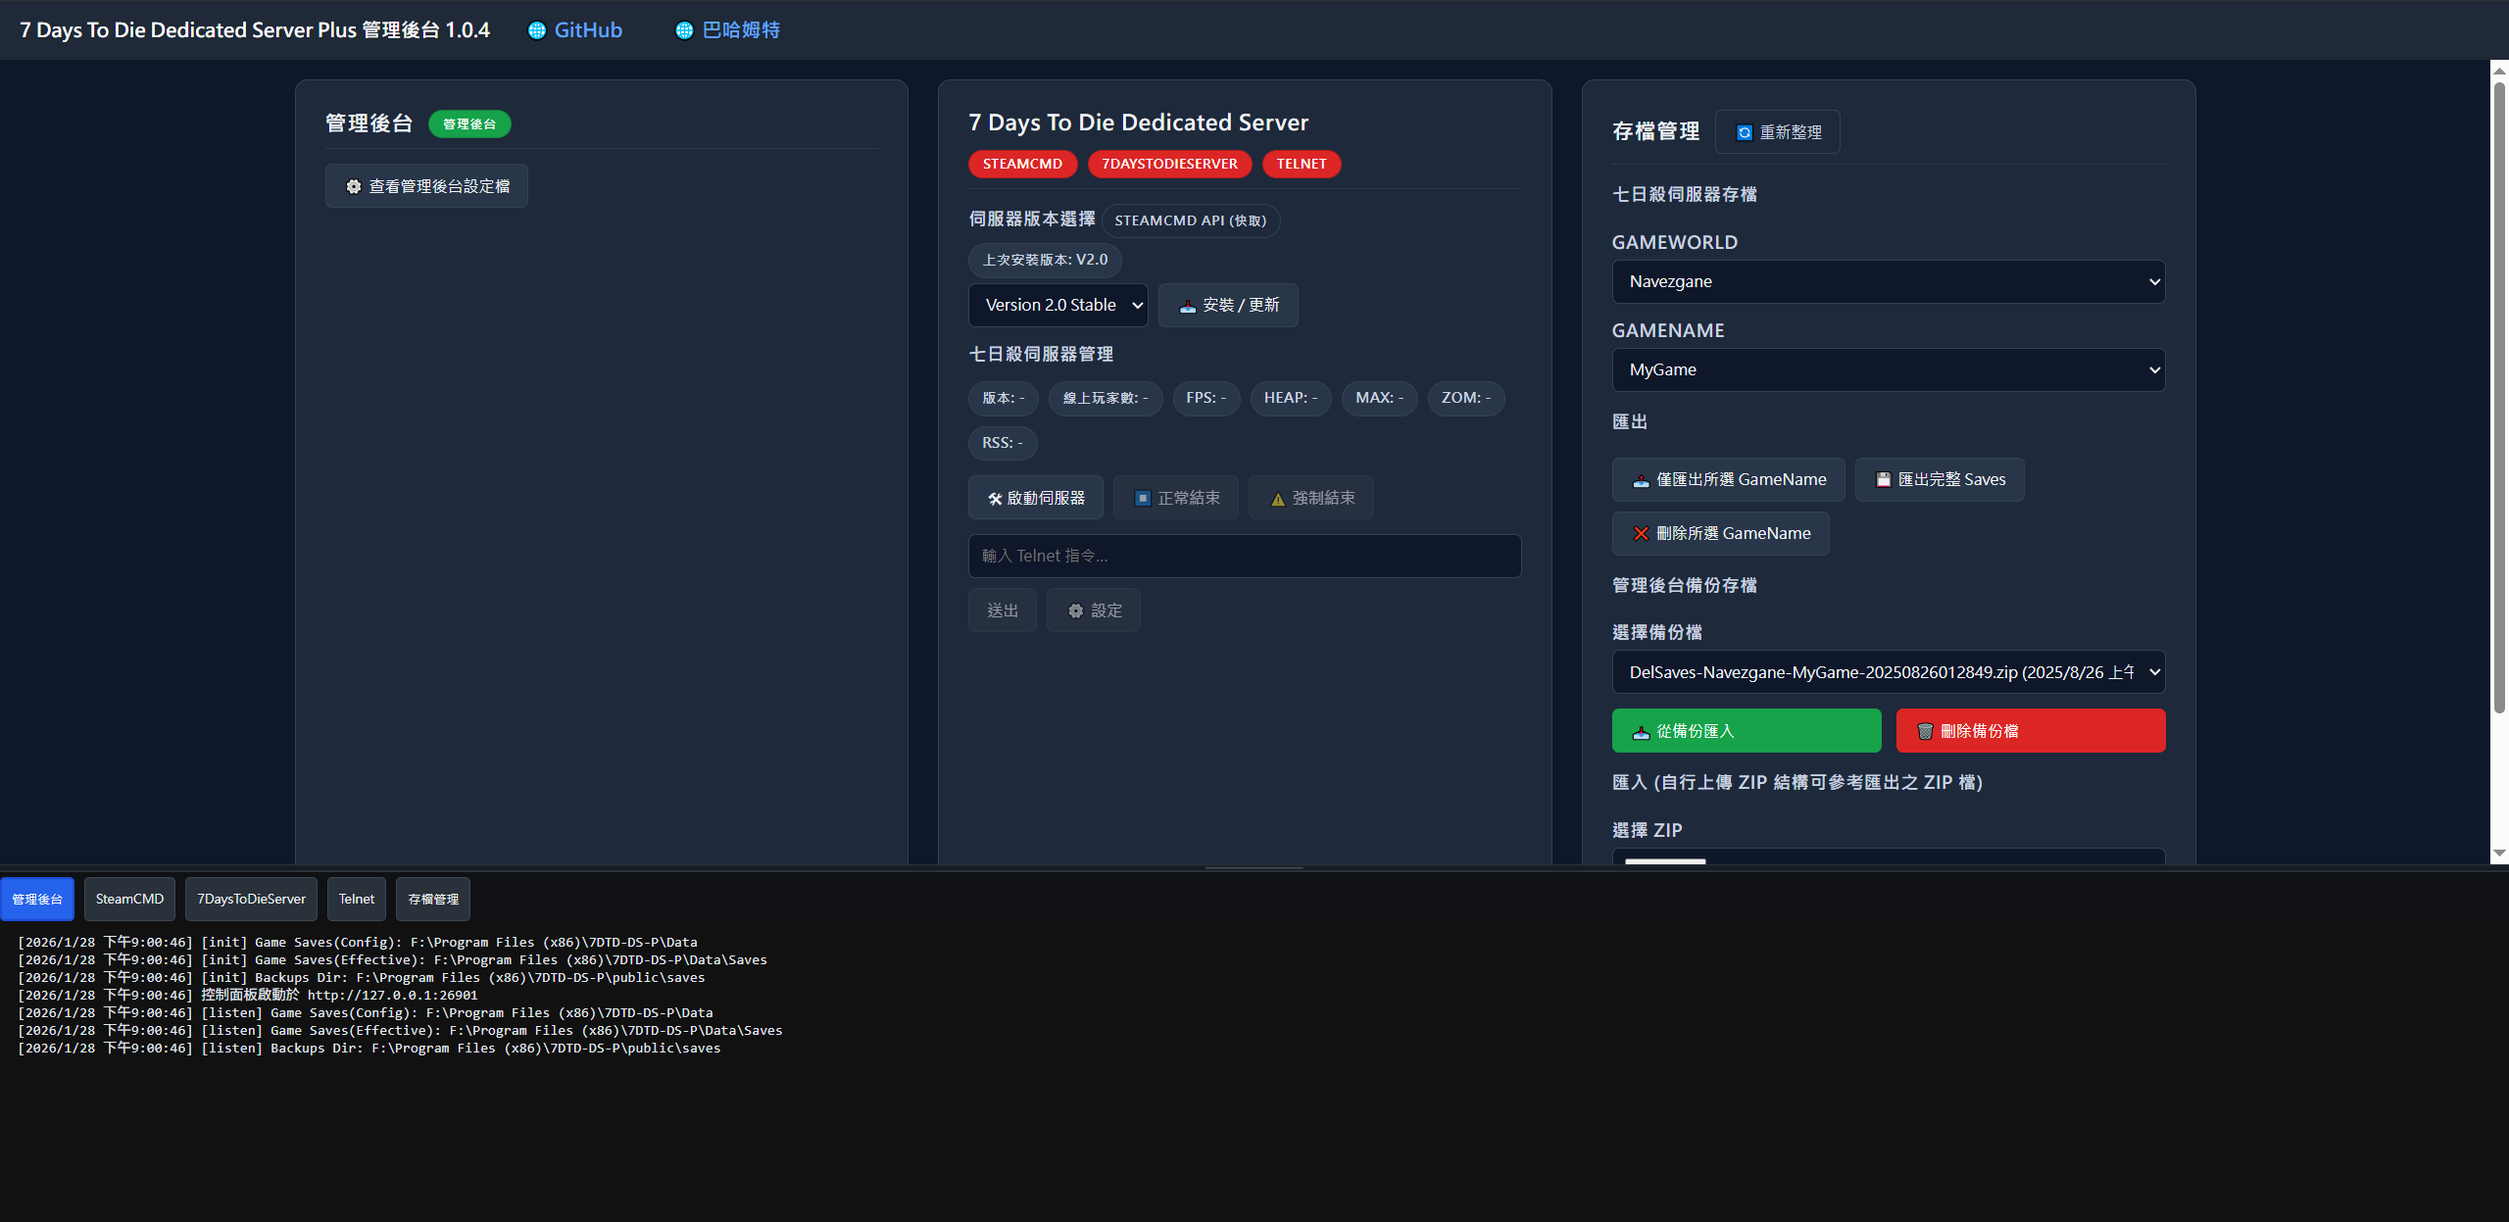
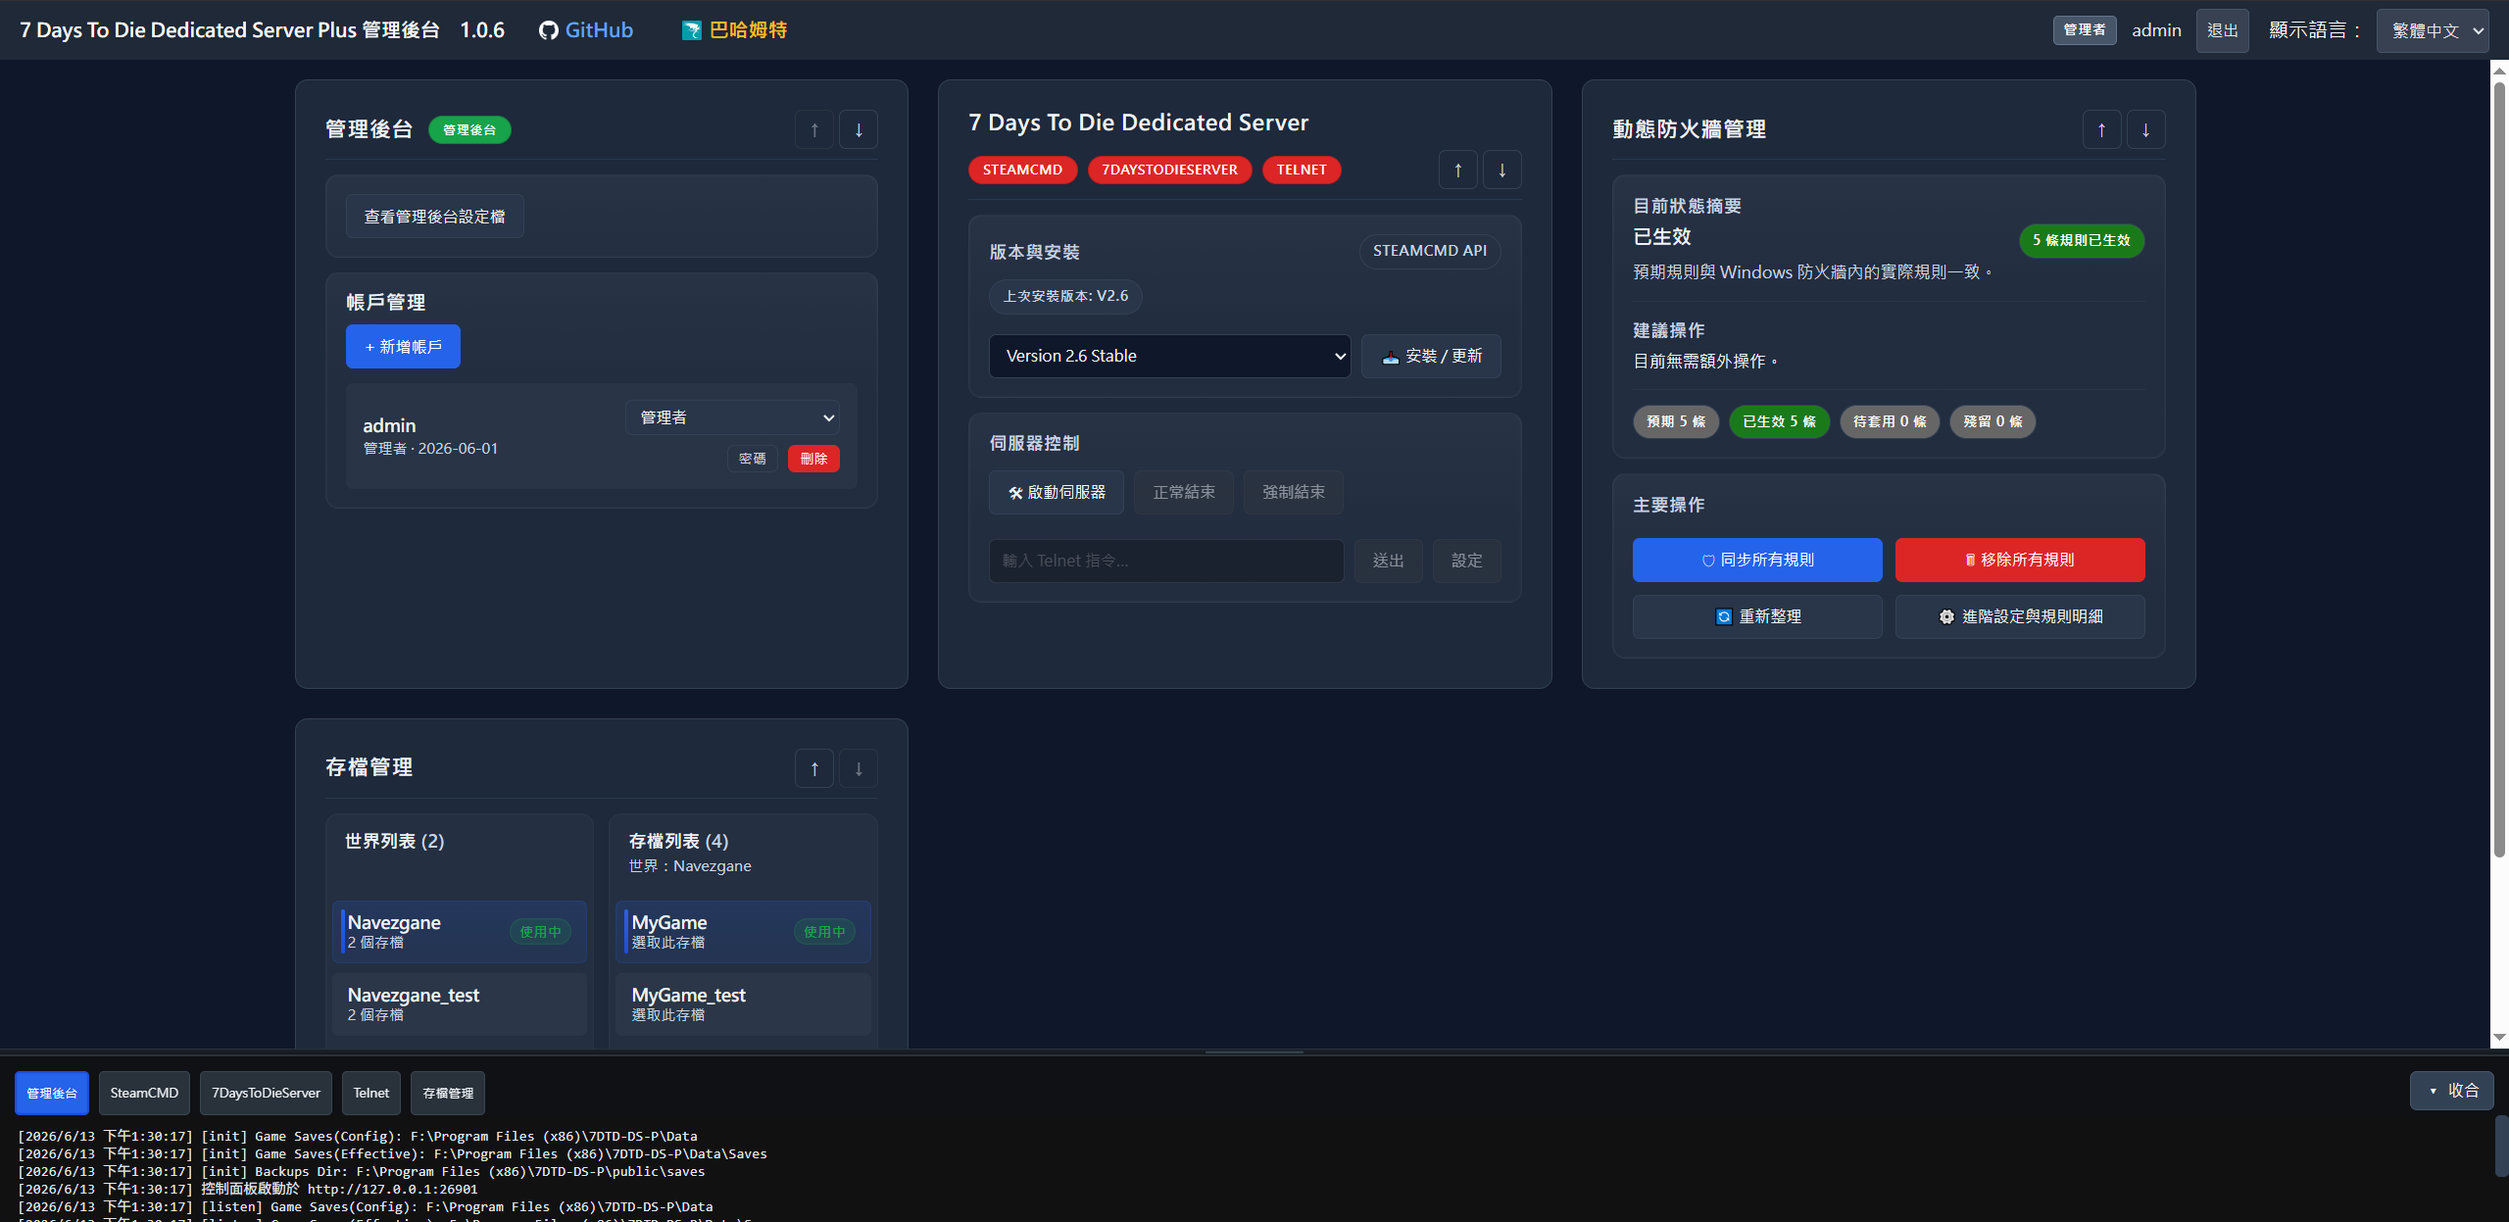
docs

diff --git a/readme.en.md b/readme.en.md
@@ -24,8 +24,6 @@
 - **Save Backup & Restore** - Easily import and export server saves
 - **Windows Service** - Install as a system service for automatic startup
 
-### Screenshot
-
 ![Management Panel](docs/images/image-11.png)
 
 ---
@@ -48,35 +46,58 @@ For detailed instructions, see the [Installation Guide](docs/install.en.md).
 
 ## Feature List
 
-### Backend Management
+The sections below follow the main dashboard cards and their related modal windows, so readers can understand each area more easily when paired with card screenshots and modal screenshots.
 
-| Feature                     | Description                   |
-| --------------------------- | ----------------------------- |
-| serverconfig.xml management | Web-based hosting and editing |
-| Logs integration            | Simplified troubleshooting    |
+### Admin Panel Card
 
-### 7 Days to Die Dedicated Server & SteamCMD Integration
+![Admin Panel Card](docs/images/readme/card-dsp-en.png)
 
-| Feature                           | Description                       |
-| --------------------------------- | --------------------------------- |
-| Server version selector           | Easily switch server versions     |
-| One-click install/update          | Quick deployment of the server    |
-| Start/stop server                 | Supports normal/forced stop       |
-| Web-based serverconfig.xml editor | Optimized for UI                  |
-| Custom save path                  | Supports UserDataFolder parameter |
-| View server status                | Player list and settings preview  |
-| Save list                         | Quick overview                    |
+- This card is used to manage the admin panel itself, including core settings and account permissions.
+- You can check the admin panel status here and open the server.json viewer.
+- Administrators can add, edit, and delete users directly from this card, and assign Admin, Operator, or Viewer roles.
+- On first launch, the setup flow creates the first administrator account before the normal sign-in flow is used.
+- The modal lets you reload or copy server.json, which is useful for verifying deployment settings, connection details, and save-path related configuration.
 
-### Save Management
+### Dynamic Firewall Management Card
 
-| Feature              | Description                         |
-| -------------------- | ----------------------------------- |
-| Import all saves     | Restore all backups as active saves |
-| Import specific save | Import a single save                |
-| Export all saves     | Batch export                        |
-| Export specific save | Single export                       |
-| Delete all saves     | Clear all saves                     |
-| Delete specific save | Delete one save                     |
+![Dynamic Firewall Management Card](docs/images/readme/card-firewall-en.png)
+
+- This card focuses on Windows Firewall management, with the main card showing the current status and suggested actions first.
+- You can quickly review the firewall summary, recommended action, rule differences, and permission warnings.
+- Main actions include syncing all rules, removing all rules, refreshing the current status, and opening advanced settings with rule details.
+- In the modal, you can adjust automation policies such as applying rules when the game server starts and removing game rules when the server stops.
+- The modal also shows managed game ports, management ports, raw rule names, and the full candidate rule list for troubleshooting connectivity issues.
+
+### 7 Days To Die Dedicated Server Card
+
+![7 Days To Die Dedicated Server Card](docs/images/readme/card-game-en.png)
+
+- This is the main day-to-day operations card for version selection, installation, live status, and Telnet control.
+- You can choose a server version, install or update the server, and review the version source plus the last installed version.
+- Once the server is running, the card shows live status such as players, FPS, zombies, Heap, Max, RSS, and the game version.
+- The control area can start the server, stop it gracefully, or force-kill it when needed.
+- The built-in Telnet input lets you send commands directly or quickly inspect server settings.
+- The modal opens the serverconfig.xml editor, where you can review fields, load the last saved settings, save changes, or save and start immediately. Editing is locked while the server is running.
+
+### Save Management Card
+
+![Save Management Card](docs/images/readme/card-saves-en.png)
+
+- This card is used to browse available worlds and saves before moving into detailed save operations.
+- From the main card, you can quickly review the world list, the save list, and the current selection.
+- The main card also provides refresh and Manage Saves as the entry point for deeper operations.
+- The modal is split into Entire Saves and Single Save, so full backup workflows are separated from per-save workflows.
+- In the single-save area, you can switch the active world/save, export a selected save, delete a save, and manage single-save backups.
+- The modal also supports uploading ZIP files for direct import, whether for the entire Saves directory or for a single save.
+
+### Bottom Console Panel
+
+![Bottom Console Panel](docs/images/readme/console-zh-tw.png)
+
+- The console panel at the bottom works together with the cards above and is useful for showing the actual result of each action.
+- It provides five tabs: Admin Panel, SteamCMD, 7DaysToDieServer, Telnet, and Save Management.
+- During installation, startup, Telnet operations, backup, or restore, you can track live output and error messages here.
+- On startup, the panel also checks for version updates and supports switching between Traditional Chinese, English, and Simplified Chinese.
 
 ---
 
@@ -88,49 +109,6 @@ For detailed instructions, see the [Installation Guide](docs/install.en.md).
 | Disk Space       | At least 20 GB (including game server and backups) |
 | Memory           | At least 16 GB RAM                               |
 | Network          | Stable network connection                        |
-
----
-
-## Roadmap
-
-### Backend Management
-
-| Feature                          | Status  | Description                |
-| -------------------------------- | ------- | -------------------------- |
-| serverconfig editor UI           | Planned | Further optimization       |
-| Remote access permission control | Planned | Enhanced security          |
-| Multi-language i18n              | Planned | English and more languages |
-| Backend version check            | Planned | Online update detection    |
-| Mobile compatibility             | Planned | Improved mobile experience |
-
-### Save Management
-
-| Feature            | Status  | Description              |
-| ------------------ | ------- | ------------------------ |
-| Saves download     | Planned | Direct download support  |
-| GameWorld download | Planned | Full world save download |
-
-### Mod Management
-
-| Feature             | Status  | Description              |
-| ------------------- | ------- | ------------------------ |
-| Import all mods     | Planned | Import all mods at once  |
-| Import specific mod | Planned | Import a single mod      |
-| Export all mods     | Planned | Batch export             |
-| Export specific mod | Planned | Single export            |
-| Download single mod | Planned | One mod download         |
-| Download all mods   | Planned | Batch download           |
-| Delete specific mod | Planned | Remove one mod           |
-| Delete all mods     | Planned | Clear all mods           |
-| Delete mod backups  | Planned | Selective backup removal |
-
-> ※ Client and server mods must match
-
-### Language Translation
-
-| Language            | Status  | Description                                   |
-| ------------------- | ------- | --------------------------------------------- |
-| Traditional Chinese | Planned | Too many things to handle, will revisit later |
 
 ---
 

diff --git a/readme.md b/readme.md
@@ -24,8 +24,6 @@
 - **存檔備份與還原** - 輕鬆匯入匯出伺服器存檔
 - **Windows 服務** - 安裝為系統服務，開機自動啟動
 
-### 截圖展示
-
 ![管理後台](docs/images/image-11.png)
 
 ---
@@ -48,35 +46,53 @@
 
 ## 功能清單
 
-### 後台管理
+以下依照主畫面的卡片與對應開窗整理，方便搭配卡片截圖與開窗截圖一起看懂每一塊在做什麼。
 
-| 功能                  | 描述               |
-| --------------------- | ------------------ |
-| serverconfig.xml 管理 | 提供網頁代管、編輯 |
-| Logs 整合             | 簡化排查難度       |
+### 管理後台卡片
 
-### 7 Days to Die Dedicated Server & SteamCMD 整合管理
+![管理後台卡片](docs/images/readme/card-dsp-zh-tw.png)
 
-| 功能                      | 描述                     |
-| ------------------------- | ------------------------ |
-| 伺服器版本選單            | 簡單切換伺服器版本       |
-| 一鍵安裝/更新             | 快速部署伺服器           |
-| 啟動/關閉伺服器           | 支援正常/強制關閉        |
-| 網頁編輯 serverconfig.xml | 並針對 UI 優化           |
-| 自訂存檔路徑              | 支援 UserDataFolder 參數 |
-| 查看伺服器狀態            | 玩家列表、設定檢視       |
-| 存檔清單                  | 快速檢視                 |
+- 卡片上可以查看管理後台狀態，並開啟 server.json 檢視視窗。
+- 管理者可以在卡片內直接管理帳戶，新增、編輯、刪除使用者，並分配管理者、操作員、觀察者角色。
+- 首次啟用時會先建立第一個管理者帳戶，之後再進入正常登入流程。
+- 開窗後可以重新讀取或複製 server.json 內容，方便核對目前部署設定、連線資訊與存檔路徑配置。
 
-### 存檔管理
+### 動態防火牆管理卡片
 
-| 功能         | 描述                 |
-| ------------ | -------------------- |
-| 匯入所有存檔 | 將備份壓入為現有存檔 |
-| 匯入指定存檔 | 指定單一存檔匯入     |
-| 匯出所有存檔 | 批次匯出             |
-| 匯出指定存檔 | 單一匯出             |
-| 刪除所有存檔 | 清空存檔             |
-| 刪除指定存檔 | 單一刪除             |
+![動態防火牆管理卡片](docs/images/readme/card-firewall-zh-tw.png)
+
+- 卡片上可以快速看到規則摘要、建議操作、目前差異與權限提醒。
+- 主操作包含同步所有規則、移除所有規則、重新整理，以及開啟進階設定與規則明細。
+- 開窗後可以調整自動化策略，例如啟動伺服器時自動套用規則、停止時自動移除規則。
+- 開窗後也能檢視目前納入管理的遊戲埠、管理埠、原始規則名稱與完整候選規則，方便排查連線問題。
+
+### 7 Days To Die Dedicated Server 卡片
+
+![7 Days To Die Dedicated Server 卡片](docs/images/readme/card-game-zh-tw.png)
+
+- 卡片上可以選擇伺服器版本，執行安裝 / 更新，並看到版本來源與上次安裝版本。
+- 伺服器啟動後，卡片會顯示即時狀態，例如玩家數、FPS、殭屍數、Heap、Max、RSS 與遊戲版本。
+- 控制區可直接啟動伺服器、正常結束，或在異常時強制結束進程。
+- 卡片內建 Telnet 輸入區，可直接送出指令，也可快速查詢設定。
+- 開窗後會進入 serverconfig.xml 編輯器，可檢查欄位、載入上次保存設定、保存變更，或保存後直接啟動伺服器；伺服器運行中則會鎖定編輯。
+
+### 存檔管理卡片
+
+![存檔管理卡片](docs/images/readme/card-saves-zh-tw.png)
+
+- 卡片上可以先從世界列表與存檔列表快速瀏覽目前資料，並確認目前選取目標。
+- 主卡片提供重新整理與「管理存檔」入口，方便先選擇再操作。
+- 開窗後分成「整個 Saves」與「單一存檔」兩區，前者適合做整包備份、整包匯入與完整備份清單管理。
+- 單一存檔區可切換使用中的 world / save、匯出指定存檔、刪除存檔，並管理單一存檔備份。
+- 開窗內也支援上傳 ZIP 後直接匯入，無論是整個 Saves 或單一存檔都有對應流程。
+
+### 下方 Console 區
+
+![下方 Console 區](docs/images/readme/console-zh-tw.png)
+
+- 提供管理後台、SteamCMD、7DaysToDieServer、Telnet、存檔管理五個分頁。
+- 進行安裝、啟動、Telnet、備份或還原時，可以直接在這裡追蹤即時輸出與錯誤訊息。
+- 啟動後也會檢查版本更新，並支援切換繁體中文、English、簡體中文介面。
 
 ---
 
@@ -88,49 +104,6 @@
 | 磁碟空間   | 至少 20 GB (含遊戲伺服器與備份)               |
 | 記憶體     | 至少 16 GB RAM                                |
 | 網路       | 穩定的網路連線                                |
-
----
-
-## 開發路線圖
-
-### 後台管理
-
-| 功能                  | 狀態     | 描述               |
-| --------------------- | -------- | ------------------ |
-| serverconfig 編輯介面 | 規劃中   | 再度優化           |
-| 遠端管理權限控管      | 規劃中   | 提升安全性         |
-| 多語系 i18n           | 規劃中   | 支援英文與更多語言 |
-| 後台版本檢查          | 規劃中   | 線上檢測更新       |
-| 手機相容性            | 規劃中   | 提升手機版體驗     |
-
-### 存檔管理
-
-| 功能               | 狀態   | 描述             |
-| ------------------ | ------ | ---------------- |
-| Saves 存檔下載     | 規劃中 | 提供直接下載     |
-| GameWorld 存檔下載 | 規劃中 | 支援完整存檔下載 |
-
-### 模組管理
-
-| 功能         | 狀態   | 描述             |
-| ------------ | ------ | ---------------- |
-| 匯入所有模組 | 規劃中 | 一次匯入所有模組 |
-| 匯入指定模組 | 規劃中 | 單一模組匯入     |
-| 匯出所有模組 | 規劃中 | 批次匯出         |
-| 匯出指定模組 | 規劃中 | 單一模組匯出     |
-| 單模組下載   | 規劃中 | 單一模組下載     |
-| 全模組下載   | 規劃中 | 批次下載所有模組 |
-| 刪除指定模組 | 規劃中 | 移除指定模組     |
-| 刪除全模組   | 規劃中 | 清空模組         |
-| 刪除模組備份 | 規劃中 | 支援指定刪除備份 |
-
-> ※ 客戶端與伺服器模組需一致
-
-### 語系翻譯
-
-| 功能     | 狀態   | 描述                 |
-| -------- | ------ | -------------------- |
-| tchinese | 規劃中 | 挖太多坑了，有空再說 |
 
 ---
 

diff --git a/docs/ARCHITECTURE.md b/docs/ARCHITECTURE.md
@@ -105,8 +105,10 @@
 │   ├── install.md                  # 安裝指南 (繁中)
 │   ├── install.en.md               # 安裝指南 (英文)
 │   └── ARCHITECTURE.md             # 本文檔
-├── .agents/                        # 專案知識 Agent 定義
-│   └── project-knowledge.agent.md  # 專案知識與限制摘要
+├── .agents/                        # Agent 文件與專案知識
+│   ├── 7DaysToDie_Save_Structure_KnowledgeBase_zh-TW.md  # 存檔結構知識庫
+│   ├── project-knowledge.agent.md  # 專案知識與限制摘要
+│   └── ui-panel-design.agent.md    # 後台 UI 設計參考
 ├── AGENTS.md                       # 專案共用 Agent 指南
 ├── CONTRIBUTING.md                 # 貢獻指南
 ├── .editorconfig                   # 編輯器配置
